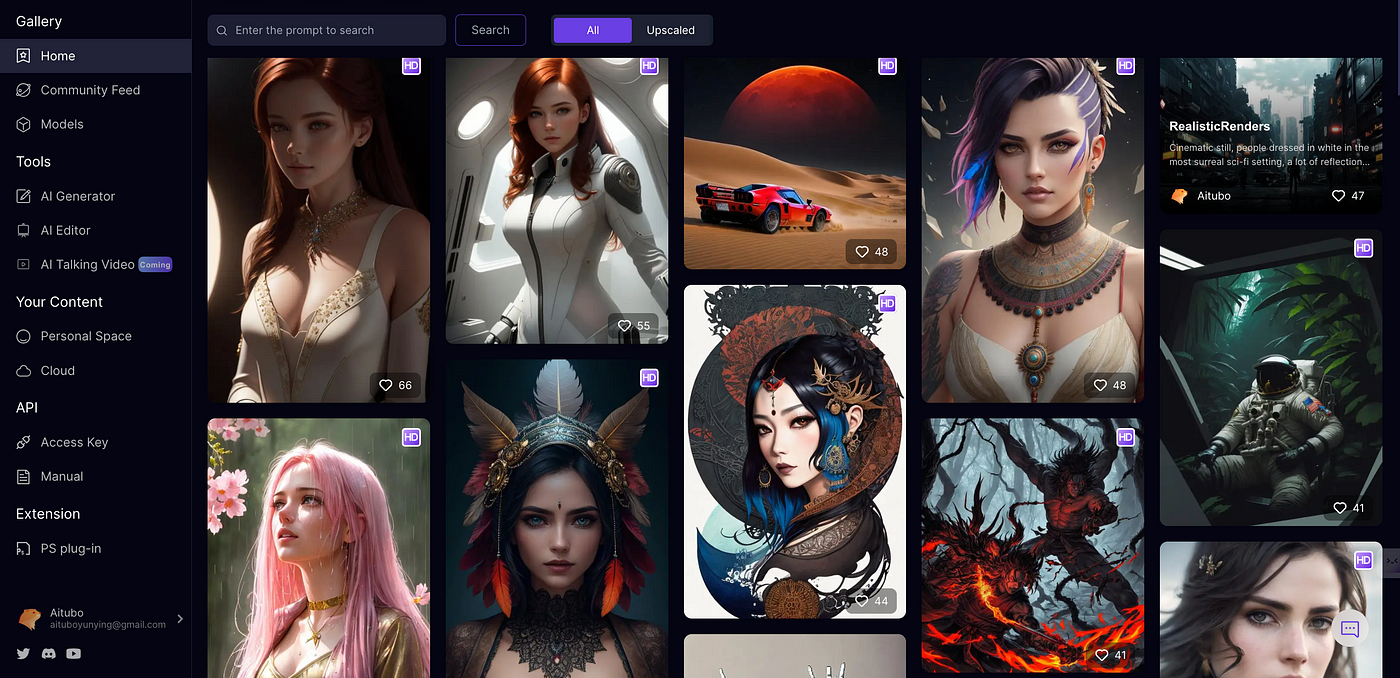
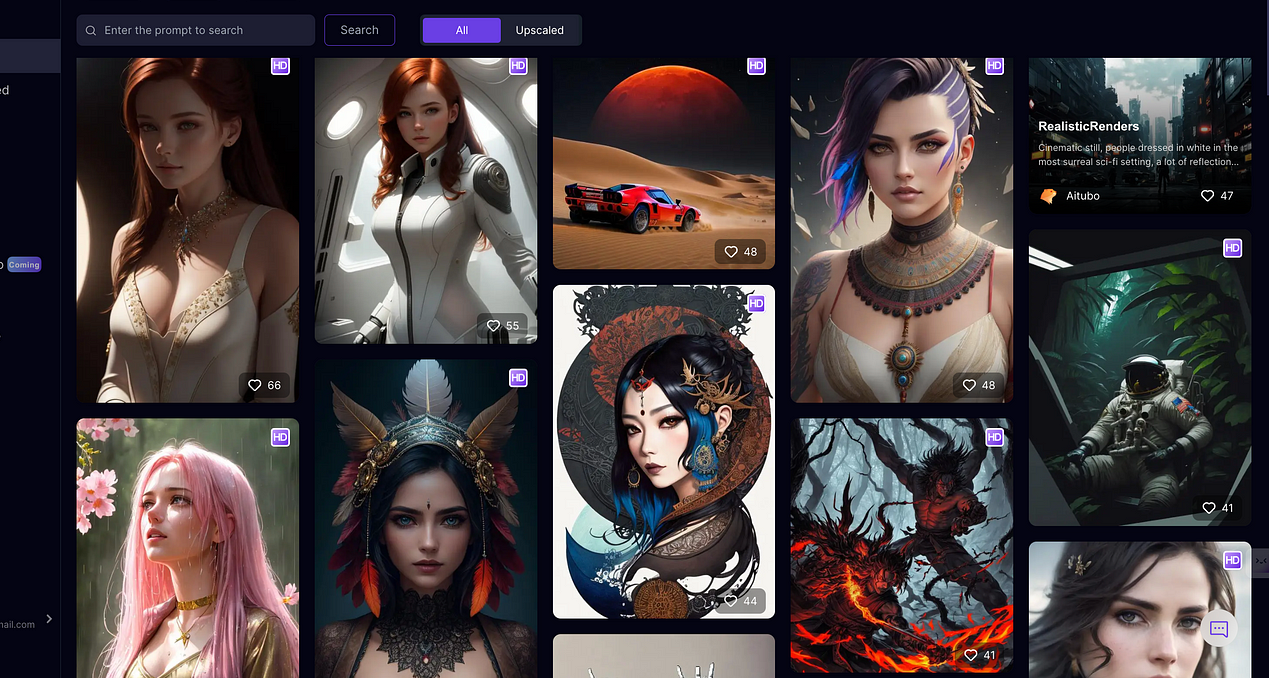
update

diff --git a/style.css b/style.css
@@ -39,7 +39,7 @@
   border: none;
   color: #f3f3f3;
   background-color: #0E1514;
-  border: 2px solid #f3f3f3;
+  border: 1px solid #f3f3f3;
   font-size: 1rem;
 }
 
@@ -87,7 +87,7 @@
   border-radius: 10px;
   border: none;
   font-size: 1rem;
-  border: 2px solid #f3f3f3;
+  border: 1px solid #f3f3f3;
 }
 .left-btn2 button:hover{
   background-color: white;
@@ -104,24 +104,19 @@
 
 
 .profile{
-  width: 3vw;
-  height: 3vw;
+  width: 2.5vw;
+  height: 2.5vw;
   border-radius: 50%;
   border: none;
   background-color:#f3f3f3;
   display: flex;
   justify-content: center;
   align-items: center;
-  border: 1px solid #f3f3f3;
+  color: #0E1514;
+  font-size: 1.5vw;
+
 }
 
-.profile img{
-  width: 100%;
-  height: 100%;
-  border-radius: 50%;
-  object-fit: cover;
-  object-position: center;
-}
 
 .hero{
   width: 100%;

diff --git a/index.html b/index.html
@@ -35,7 +35,7 @@
             </button>
              </div>
                 <div class="profile">
-                  <img src="profile.jpg" alt="">
+                  <i class="ri-user-line"></i>
                 </div>
               </div>
         </div>
